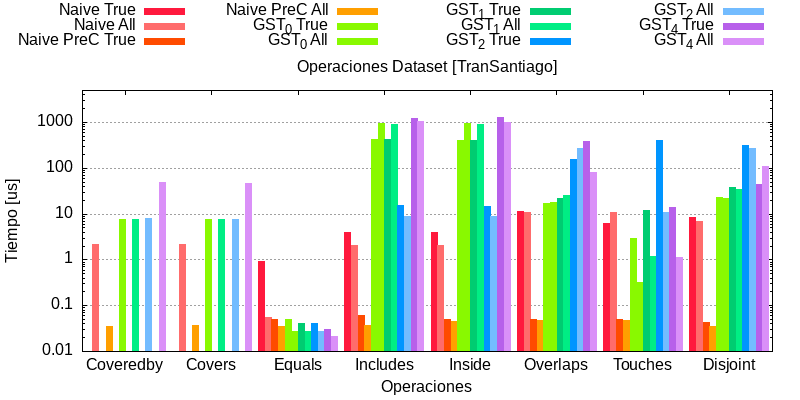
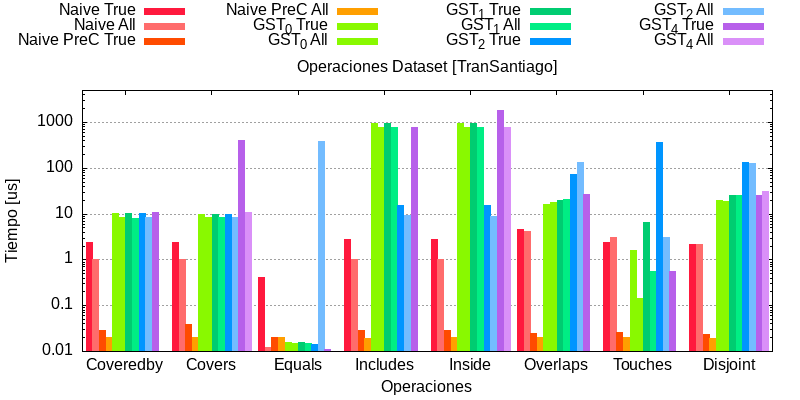
optimización en operaciones gst2.

diff --git a/codes_sdsl_cst/TopoRel_GST_2.cpp b/codes_sdsl_cst/TopoRel_GST_2.cpp
@@ -283,6 +283,7 @@ bool TopoRelGST_2::tr_coveredby(int x, int y){
         return false;
     }
     // Verifica CoveredBy
+    /*
     auto lca = cst.lca(gstMapa[x], gstMapa[y]);
     if(cst.depth(lca) == lx){
         return true;
@@ -299,7 +300,21 @@ bool TopoRelGST_2::tr_coveredby(int x, int y){
     if(cst.depth(lca) == lx){
         return true;
     }
-    
+    */
+    // Comprobar bordes
+    if(gstStopBI[x] == gstStopBI[y] || gstStopBI[x] == gstStopBF[y] ||
+            gstStopBF[x] == gstStopBI[y] || gstStopBF[x] == gstStopBF[y]){
+        // Comprobrar contención
+        auto parentX = cst.parent(gstMapa[x]);
+        if(cst.depth(parentX) == gstLargos[x] && (gstMarcas[y][cst.id(parentX)] || gstMarcas[y+n_rutas][cst.id(parentX)])){
+            return true;
+        }
+        parentX = cst.parent(gstMapa[x+n_rutas]);
+        if(cst.depth(parentX) == gstLargos[x] && (gstMarcas[y][cst.id(parentX)] || gstMarcas[y+n_rutas][cst.id(parentX)])){
+            return true;
+        }
+    }
+
     return false;
 }
 
@@ -314,29 +329,19 @@ bool TopoRelGST_2::tr_inside(int x, int y){
     if(lx >= ly){
         return false;
     }
-    // Descarte por CoveredBy
-    auto lca = cst.lca(gstMapa[x], gstMapa[y]);
-    if(cst.depth(lca) == lx){
-        return false;
-    }
-    lca = cst.lca(gstMapa[x], gstMapa[y+n_rutas]);
-    if(cst.depth(lca) == lx){
-        return false;
-    }
-    lca = cst.lca(gstMapa[x+n_rutas], gstMapa[y]);
-    if(cst.depth(lca) == lx){
-        return false;
-    }
-    lca = cst.lca(gstMapa[x+n_rutas], gstMapa[y+n_rutas]);
-    if(cst.depth(lca) == lx){
-        return false;
-    }
-
-    // Verificación por gstMarcas
-    auto padreX = cst.parent(gstMapa[x]);
-    int idPaX = cst.id(padreX);
-    if(cst.depth(padreX) == lx && gstMarcas[y][idPaX]){
-        return true;
+    
+    // Comprobar bordes
+    if(gstStopBI[x] != gstStopBI[y] && gstStopBI[x] != gstStopBF[y] &&
+            gstStopBF[x] != gstStopBI[y] && gstStopBF[x] != gstStopBF[y]){
+        // Comprobar contención
+        auto parentX = cst.parent(gstMapa[x]);
+        if(cst.depth(parentX) == gstLargos[x] && (gstMarcas[y][cst.id(parentX)] || gstMarcas[y+n_rutas][cst.id(parentX)])){
+            return true;
+        }
+        parentX = cst.parent(gstMapa[x+n_rutas]);
+        if(cst.depth(parentX) == gstLargos[x] && (gstMarcas[y][cst.id(parentX)] || gstMarcas[y+n_rutas][cst.id(parentX)])){
+            return true;
+        }
     }
     return false;
 }
@@ -350,12 +355,13 @@ bool TopoRelGST_2::tr_disjoint(int x, int y){
     if(gstMapa[x] == gstMapa[y] || gstMapa[x] == gstMapa[y+n_rutas]){
         return false;
     }
-    // Descartar contención por CB o CV
-    if(tr_coveredby(x,y) || tr_covers(x,y)){
+    // Descartar contención por CB o CV o IS o IC
+    auto parentX = cst.parent(gstMapa[x]);
+    if(gstMarcas[y][cst.id(parentX)] || gstMarcas[y+n_rutas][cst.id(parentX)]){
         return false;
     }
-    // Descartar contención por IS o IC
-    if(tr_inside(x,y) || tr_includes(x,y)){
+    parentX = cst.parent(gstMapa[x+n_rutas]);
+    if(gstMarcas[y][cst.id(parentX)] || gstMarcas[y+n_rutas][cst.id(parentX)]){
         return false;
     }
 
